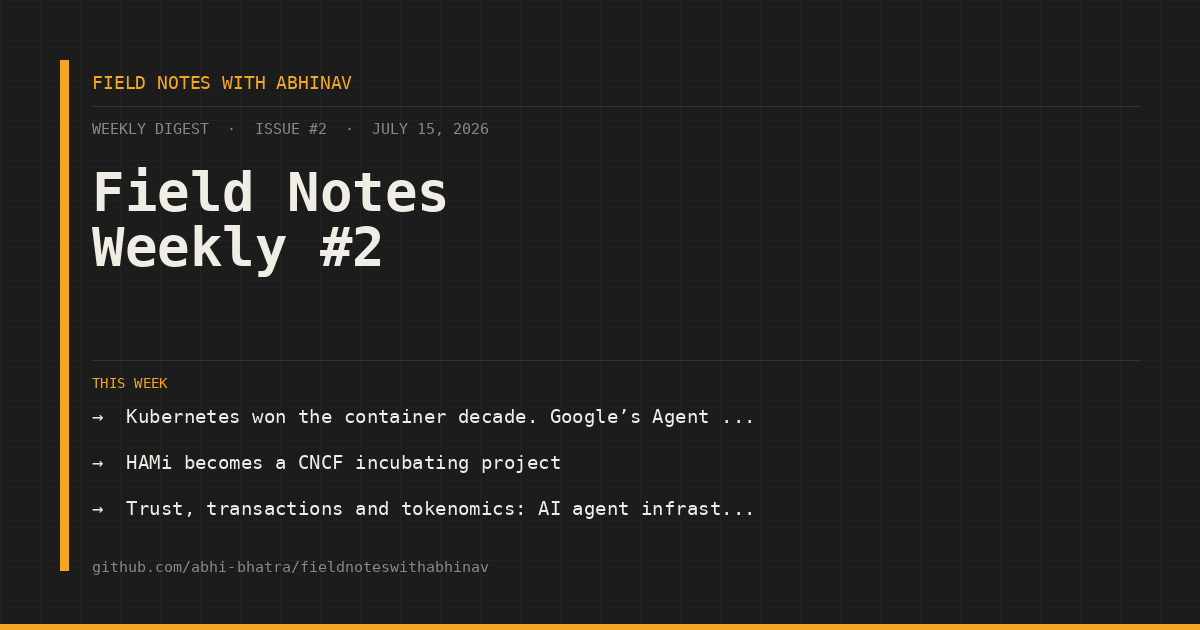
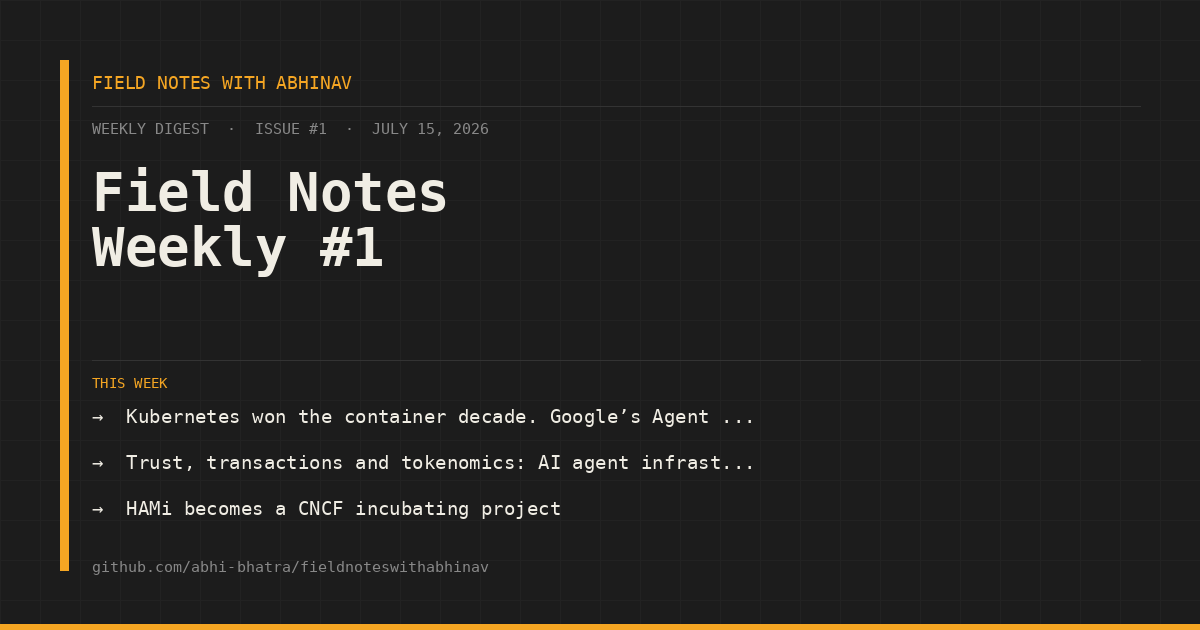
newsletter: issue 1 draft [skip ci]

Changed region(s): [[0.0925, 0.7238, 0.6167, 0.754], [0.0925, 0.7841, 0.5858, 0.8143], [0.2775, 0.3619, 0.3392, 0.4222]]

diff --git a/drafts/2026-07-15.md b/drafts/2026-07-15.md
@@ -1,4 +1,4 @@
-# Field Notes Weekly #2
+# Field Notes Weekly #1
 
 _2026-07-15_
 
@@ -6,39 +6,44 @@ _2026-07-15_
 
 ## Field Note
 
-AI agents are starting to look a lot like microservices with worse observability and more interesting failure modes. Between Google’s Agent Substrate and CNCF picking up HAMi, you can see the industry quietly admitting that “AI workloads” are just another kind of distributed system with GPU scheduling bolted on. The governance and tokenomics pieces are also moving into place, which means you will eventually be on call for an “agent economy” outage. The pattern is familiar: we build the runtime first, then remember we need isolation, quotas, and a way to kill things when they go rogue.
+AI agent infrastructure is starting to look a lot like early Kubernetes: a lot of hand-rolled glue, a few emerging runtimes, and everyone pretending standards exist. Reading through Google’s Agent Substrate work and the X402 foundation pieces, it is clear we are about to replay the “orchestrator wars,” just with agents and wallets instead of pods and services. The interesting part for platform teams is that these stacks are landing directly on top of existing clusters and GPU pools, not beside them. If you own Kubernetes or DBaaS, you are about to inherit “AI agent” as a new class of workload whether you asked for it or not.
+
+---
 
 ## This Week's Reads
 
-**[Kubernetes won the container decade. Google’s Agent Substrate wants the next one](https://thenewstack.io/kubernetes-ai-agent-runtime/)** `The New Stack`  
-Google is positioning GKE Agent Sandbox and Agent Substrate as a runtime and isolation layer for AI agents, separate from traditional container workloads. Think of it as a specialized control plane and sandbox for long-lived, autonomous processes that talk to lots of external systems.  
-**Why it matters:** If this sticks, you may be running a parallel “agent platform” next to your Kubernetes clusters, with a new set of scheduling, security, and lifecycle problems to own.
-
-**[HAMi becomes a CNCF incubating project](https://www.cncf.io/blog/2026/07/15/hami-becomes-a-cncf-incubating-project/)** `CNCF Blog`  
-HAMi is now a CNCF incubating project, focused on GPU resource management and scheduling for modern AI infrastructure. It tackles fragmentation and underutilization of expensive accelerators, aiming to give clusters a more coherent view of GPU capacity and sharing.  
-**Why it matters:** If you are being asked to “support AI,” HAMi is one of the few concrete tools in the CNCF stack that might actually reduce GPU waste and scheduling pain.
+**[Kubernetes won the container decade. Google’s Agent Substrate wants the next one.](https://thenewstack.io/kubernetes-ai-agent-runtime/)** `The New Stack`  
+Google is positioning GKE Agent Sandbox and Agent Substrate as an execution and governance layer for autonomous AI agents running across infrastructure. The model looks like “agents as workloads” with isolation, policy, and observability built in, heavily tied to GKE.  
+**Why it matters:** If Kubernetes becomes the default substrate for agents, platform teams will be asked to secure, meter, and debug them the same way they do services, which is not how most current AI tooling is built.
 
 **[Trust, transactions and tokenomics: AI agent infrastructure begins to standardize](https://thenewstack.io/x402-foundation-ai-agents-standards/)** `The New Stack`  
-This piece looks at emerging standards around AI agents: identity, trust models, transactional guarantees, and how agents pay each other (or you) for work via tokenomics. It is less about models and more about the plumbing that lets autonomous agents operate across multiple platforms and services.  
-**Why it matters:** These standards will shape how you authenticate, meter, and audit agent workloads across your infrastructure, which in turn affects how you design your platform’s guardrails.
+The X402 foundation is pushing standards around how agents authenticate, transact, and get paid or metered across the internet. It treats agents as economic actors, not just processes, and tries to define common rails for identity, settlement, and reputation.  
+**Why it matters:** Once money moves, compliance and risk teams show up, which means platform engineers will need to plug agent frameworks into existing IAM, audit, and billing systems instead of letting them live in a separate playground.
+
+**[HAMi becomes a CNCF incubating project](https://www.cncf.io/blog/2026/07/15/hami-becomes-a-cncf-incubating-project/)** `CNCF Blog`  
+HAMi targets the usual GPU pain: fragmentation, underutilization, and scheduling mess across AI infrastructure. As an incubating CNCF project, it is now on the same path as a lot of the cluster-level tooling we already deploy, with focus on GPU sharing, isolation, and efficiency.  
+**Why it matters:** If HAMi stabilizes, it could become the default way Kubernetes shops manage multi-tenant GPUs, which is more operationally realistic than everyone writing their own custom scheduler and admission stack.
 
 **[On-prem DBaaS in 2026: Platforms, standards, and gaps](https://www.cncf.io/blog/2026/07/15/on-prem-dbaas-in-2026-platforms-standards-and-gaps/)** `CNCF Blog`  
-A survey of the current state of on-prem database-as-a-service: what platforms exist, how they expose PostgreSQL/MariaDB/Redis, and where the experience still falls short of cloud RDS-style simplicity. It calls out gaps in standards around provisioning, credentials, lifecycle, and multi-tenant safety.  
-**Why it matters:** If your org is trying to build “internal RDS,” this is a useful reality check on what is still missing in the ecosystem and where you will end up writing glue code.
+This post surveys the current state of on-prem database-as-a-service: operator frameworks, service catalogs, and how teams actually provision and rotate credentials. It is blunt about the gap between “click to get a database” marketing and the reality of backups, upgrades, and multi-tenant safety.  
+**Why it matters:** If your org is drifting toward “internal RDS,” this is a good checklist of what you will be held accountable for that most POCs conveniently ignore.
 
 **[Managing DB credentials for k8s services](https://www.reddit.com/r/kubernetes/comments/1ux8n6e/managing_db_credentials_for_k8s_services/)** `r/kubernetes`  
-A practical thread on how people actually handle database credentials in Kubernetes: Secrets, external secret stores, rotation strategies, and the usual mix of “what the docs say” vs “what survives production.” The comments surface common patterns and tradeoffs, including operator-based approaches and sidecar helpers.  
-**Why it matters:** Credential handling is still one of the biggest footguns in k8s; seeing what other teams really do can help you tighten your own approach or avoid yet another bespoke solution.
+A practical thread on how folks are handling database credentials for services running in Kubernetes: Secrets, external secret managers, rotation workflows, and some rough edges around app changes. The discussion is very close to real-world setups, including what breaks when rotation is not designed in from the start.  
+**Why it matters:** Credential handling is still where many clusters quietly fail audits, and patterns here can be lifted directly into your own reference architecture or runbooks.
 
 **[Meta and the rise of the accidental cloud](https://thenewstack.io/meta-compute-supply-fragmentation/)** `The New Stack`  
-This article looks at large non-cloud companies quietly becoming cloud providers, often by exposing excess compute or specialized hardware capacity. Meta and even a shoe company are used as examples of “accidental clouds” with fragmented supply and ad hoc operating models.  
-**Why it matters:** If your company is hoarding GPUs or building internal platforms, there is a real chance you drift into “provider” territory without the governance and reliability practices that go with it.
+This piece looks at Meta and even a shoe company effectively becoming cloud providers because they overbuilt compute and then started selling the excess. It frames a world where “cloud” is less about a few hyperscalers and more about a fragmented market of surplus capacity with uneven tooling and SLAs.  
+**Why it matters:** Procurement and architecture decisions will get more complicated as teams start mixing hyperscaler, “accidental cloud,” and on-prem capacity, and platform engineers will be asked to make them all look like one coherent environment.
 
 **[“The database is the product”: What breaks when memory devices scale](https://thenewstack.io/ai-notetaker-database-architecture/)** `The New Stack`  
-A deep dive into what happens to data infrastructure when you have continuous capture devices (AI note-takers, wearables) generating high-fidelity, long-lived personal data streams. The piece argues that for these products, the database architecture is effectively the core product, and explores the storage, indexing, and privacy implications.  
-**Why it matters:** If you are designing platforms for AI-heavy applications, your “data layer” decisions are no longer just an implementation detail; they directly constrain product behavior and risk.
+Using wearables and AI note-takers as the example, this article walks through what happens when you go from a handful of events to a continuous stream of high-fidelity data tied to humans. Indexing, retention, privacy constraints, and query patterns all shift, and the database design starts to define the user experience.  
+**Why it matters:** If your org is experimenting with always-on data capture or “AI companions,” you will need to treat data architecture as a first-class product concern, not a backend detail that can be patched later.
+
+---
 
 ## One to Watch
 
-**[HAMi becomes a CNCF incubating project](https://www.cncf.io/blog/2026/07/15/hami-becomes-a-cncf-incubating-project/)**  
-HAMi’s move into CNCF incubation is easy to skim past, but it is one of the few concrete signals that GPU scheduling and sharing is stabilizing into something you can standardize on. As AI workloads stop being side projects and start landing in your main clusters, you will need a strategy for multi-tenant GPU allocation, quotas, and isolation that does not involve custom spreadsheets and node labels. Watching how HAMi evolves, integrates with existing Kubernetes schedulers, and aligns with other CNCF projects will tell you whether you can treat GPU capacity like any other resource in your platform, or whether you are signing up for a parallel scheduling stack.
+**HAMi as CNCF incubating GPU infrastructure**
+
+The CNCF move on [HAMi](https://www.cncf.io/blog/2026/07/15/hami-becomes-a-cncf-incubating-project/) is easy to miss if you are not doing heavy AI work yet, but it is worth tracking. GPU scheduling today is mostly bespoke YAML, node labels, and tribal knowledge, which does not survive scale or multi-tenant environments. An incubating project focused on making GPUs a sane shared resource inside Kubernetes clusters is exactly the kind of thing that quietly becomes “the way everyone does it” in two years. If you are planning hardware refreshes or new AI clusters, keeping an eye on HAMi’s design and adoption curve will save you from locking into a dead-end pattern.
